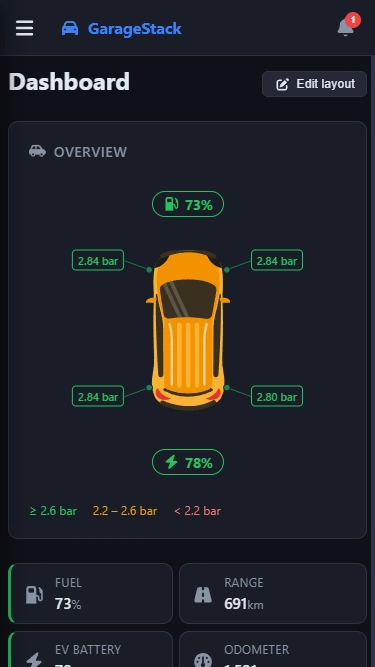
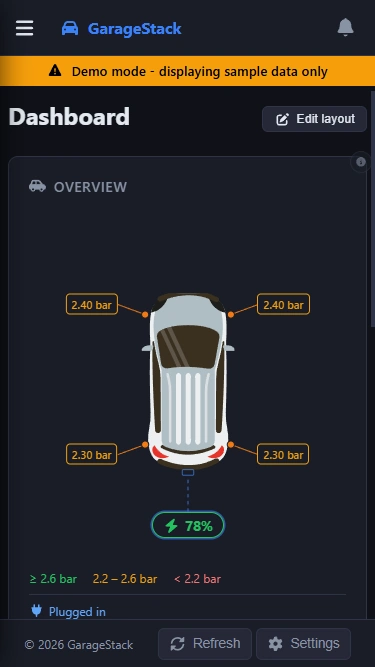
feat: add map and statistics screenshots to PWA manifest
Adds mobile and desktop screenshots for the map and statistics views,
and registers all six screenshots (home/map/stats x narrow/wide) in
the PWA manifest so app stores and install prompts can showcase the app.

diff --git a/frontend/vite.config.ts b/frontend/vite.config.ts
@@ -45,7 +45,31 @@ export default defineConfig({
             form_factor: 'narrow',
           },
           {
+            src: 'screenshot-mobile-map.webp',
+            sizes: '375x667',
+            type: 'image/webp',
+            form_factor: 'narrow',
+          },
+          {
+            src: 'screenshot-mobile-statistics.webp',
+            sizes: '375x667',
+            type: 'image/webp',
+            form_factor: 'narrow',
+          },
+          {
             src: 'screenshot-desktop-home.webp',
+            sizes: '1269x1038',
+            type: 'image/webp',
+            form_factor: 'wide',
+          },
+          {
+            src: 'screenshot-desktop-map.webp',
+            sizes: '1269x1038',
+            type: 'image/webp',
+            form_factor: 'wide',
+          },
+          {
+            src: 'screenshot-desktop-statistics.webp',
             sizes: '1269x1038',
             type: 'image/webp',
             form_factor: 'wide',